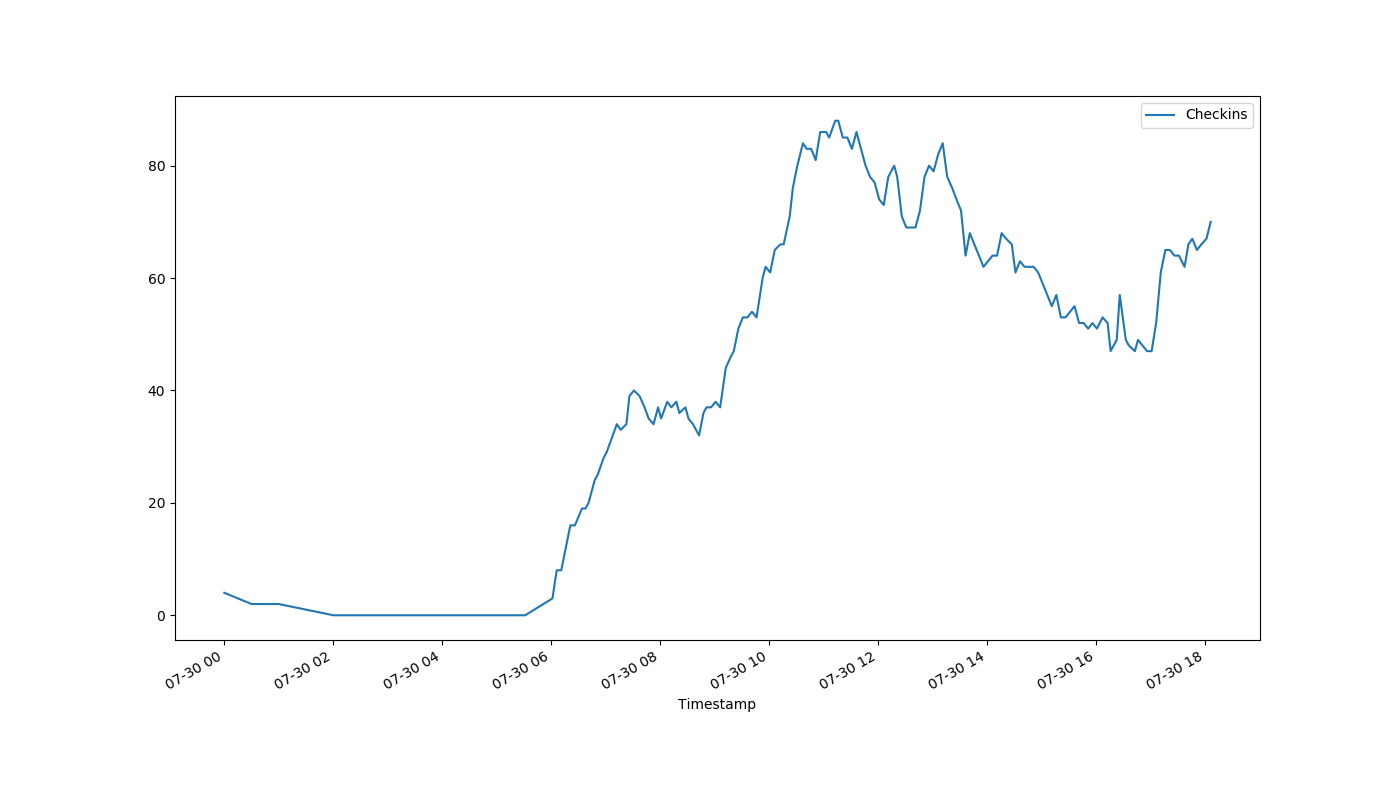
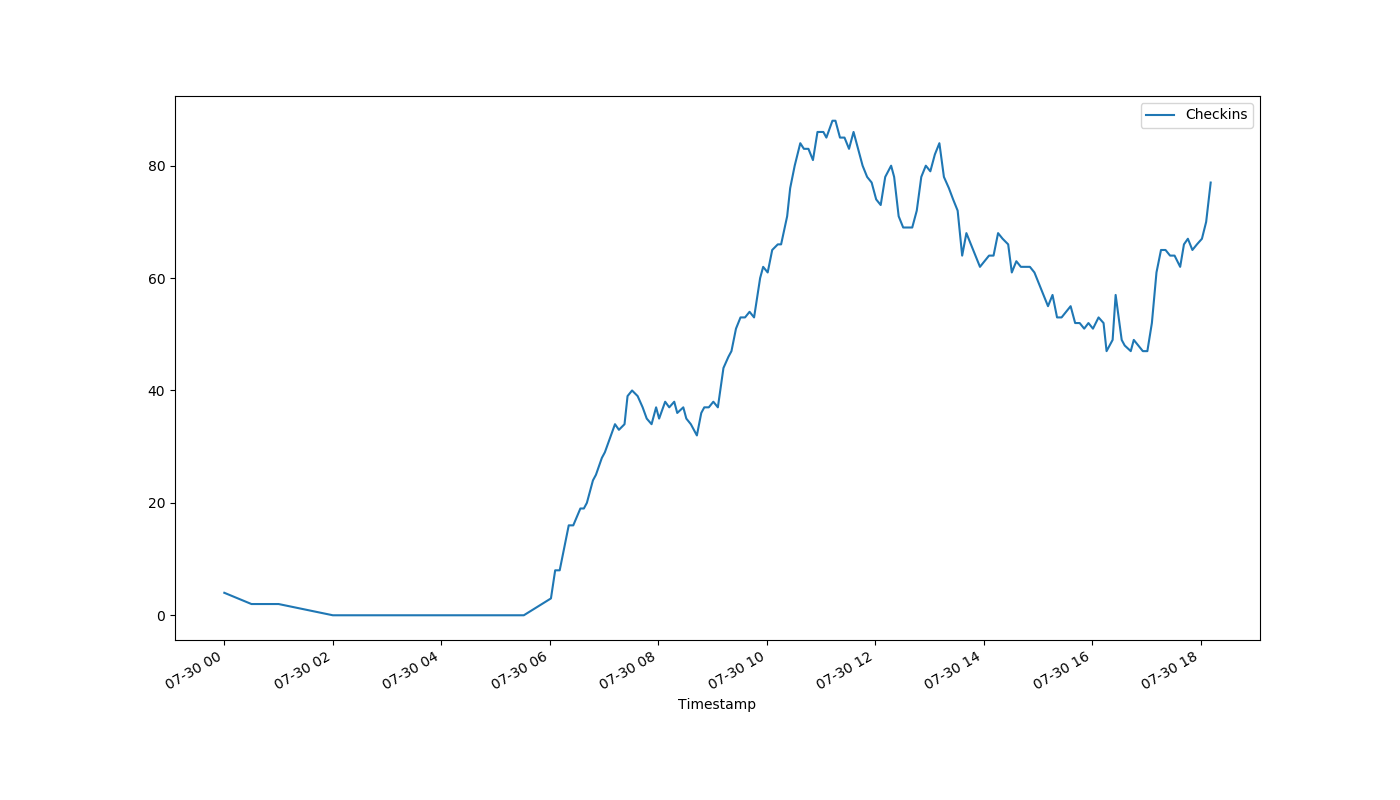
auto-Jul-30-18:13:24

diff --git a/index.html b/index.html
@@ -1,1 +1,1 @@
-<!DOCTYPE html><html><head><meta http-equiv="refresh" content="30"><link rel='stylesheet' href='holmcurrent.css'></head><body><p id='count'>70</p><div id='graph-wrap'><img id='graph' src='holmgraph-Jul-30.png'></div><p id='updated'>Last updated 18:07:05 / 18:06:13</p></body></html>
+<!DOCTYPE html><html><head><meta http-equiv="refresh" content="30"><link rel='stylesheet' href='holmcurrent.css'></head><body><p id='count'>77</p><div id='graph-wrap'><img id='graph' src='holmgraph-Jul-30.png'></div><p id='updated'>Last updated 18:12:05 / 18:11:14</p></body></html>
